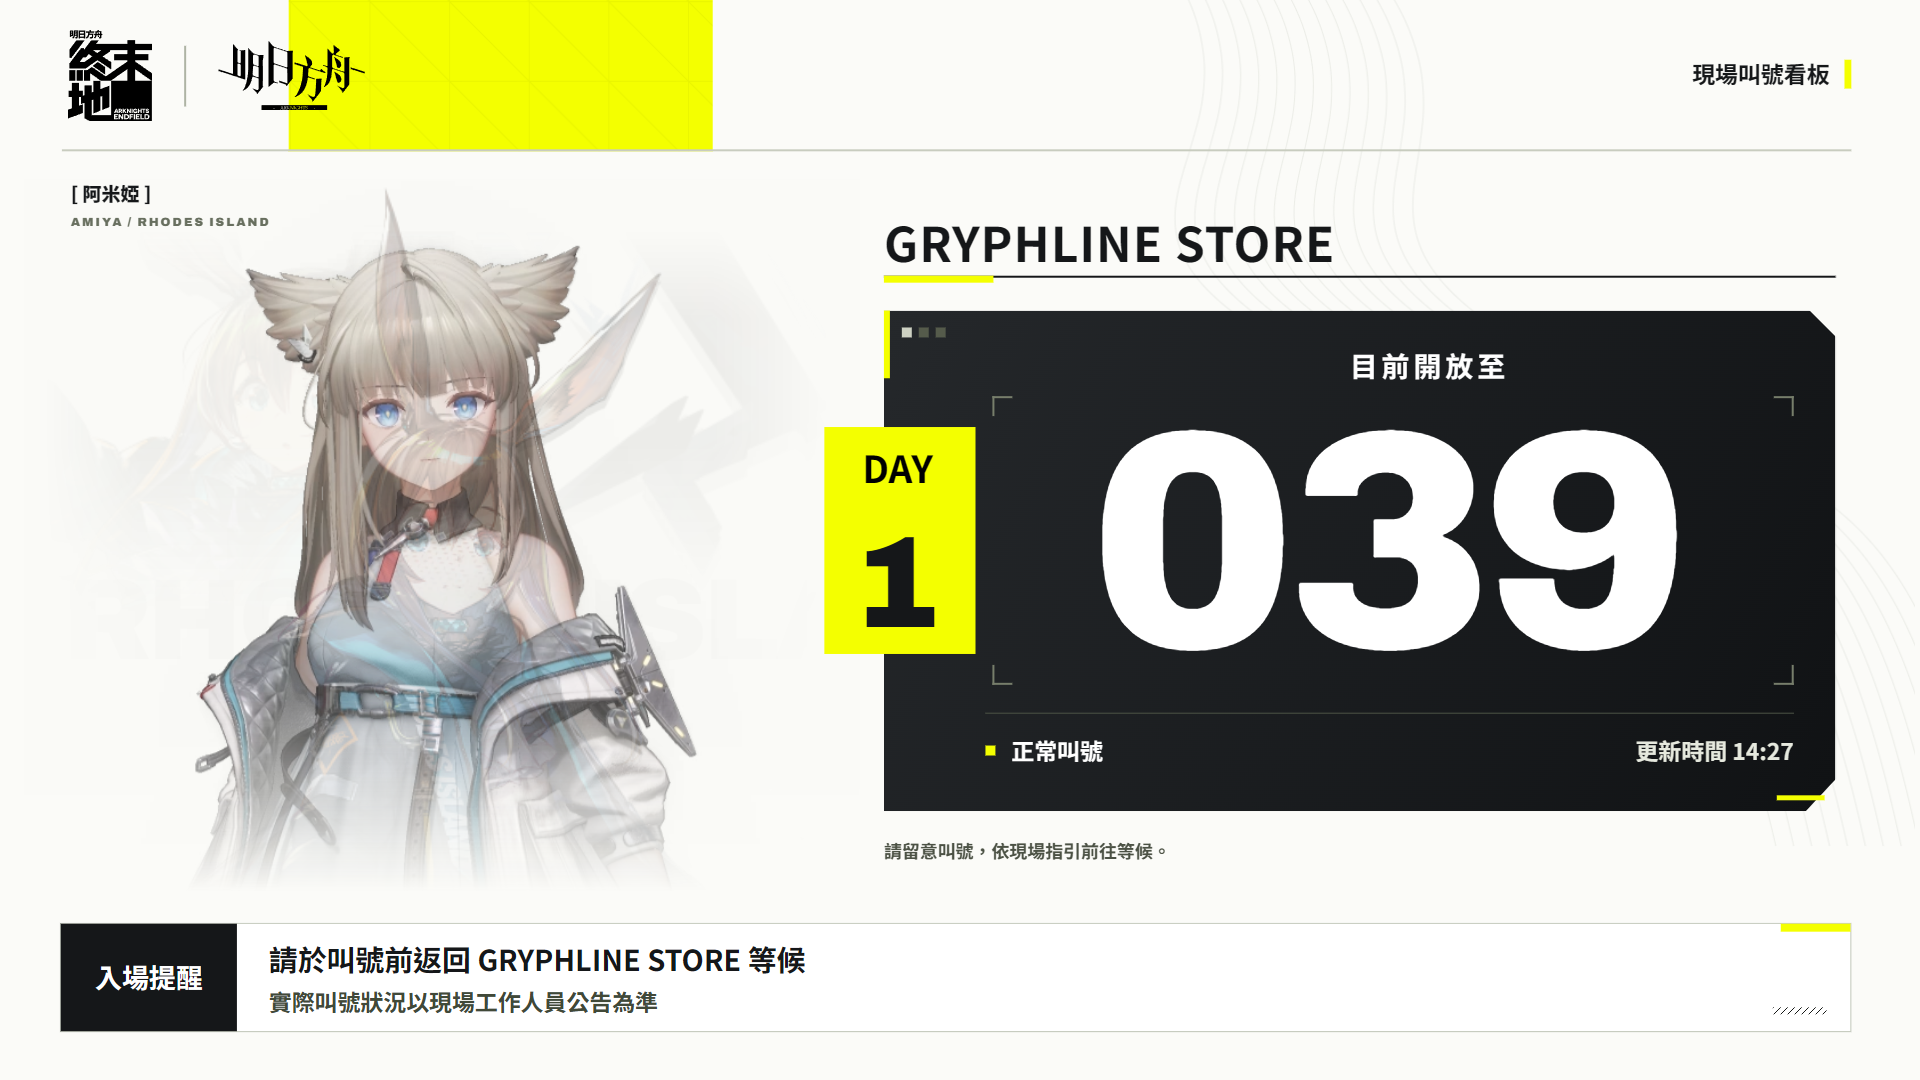
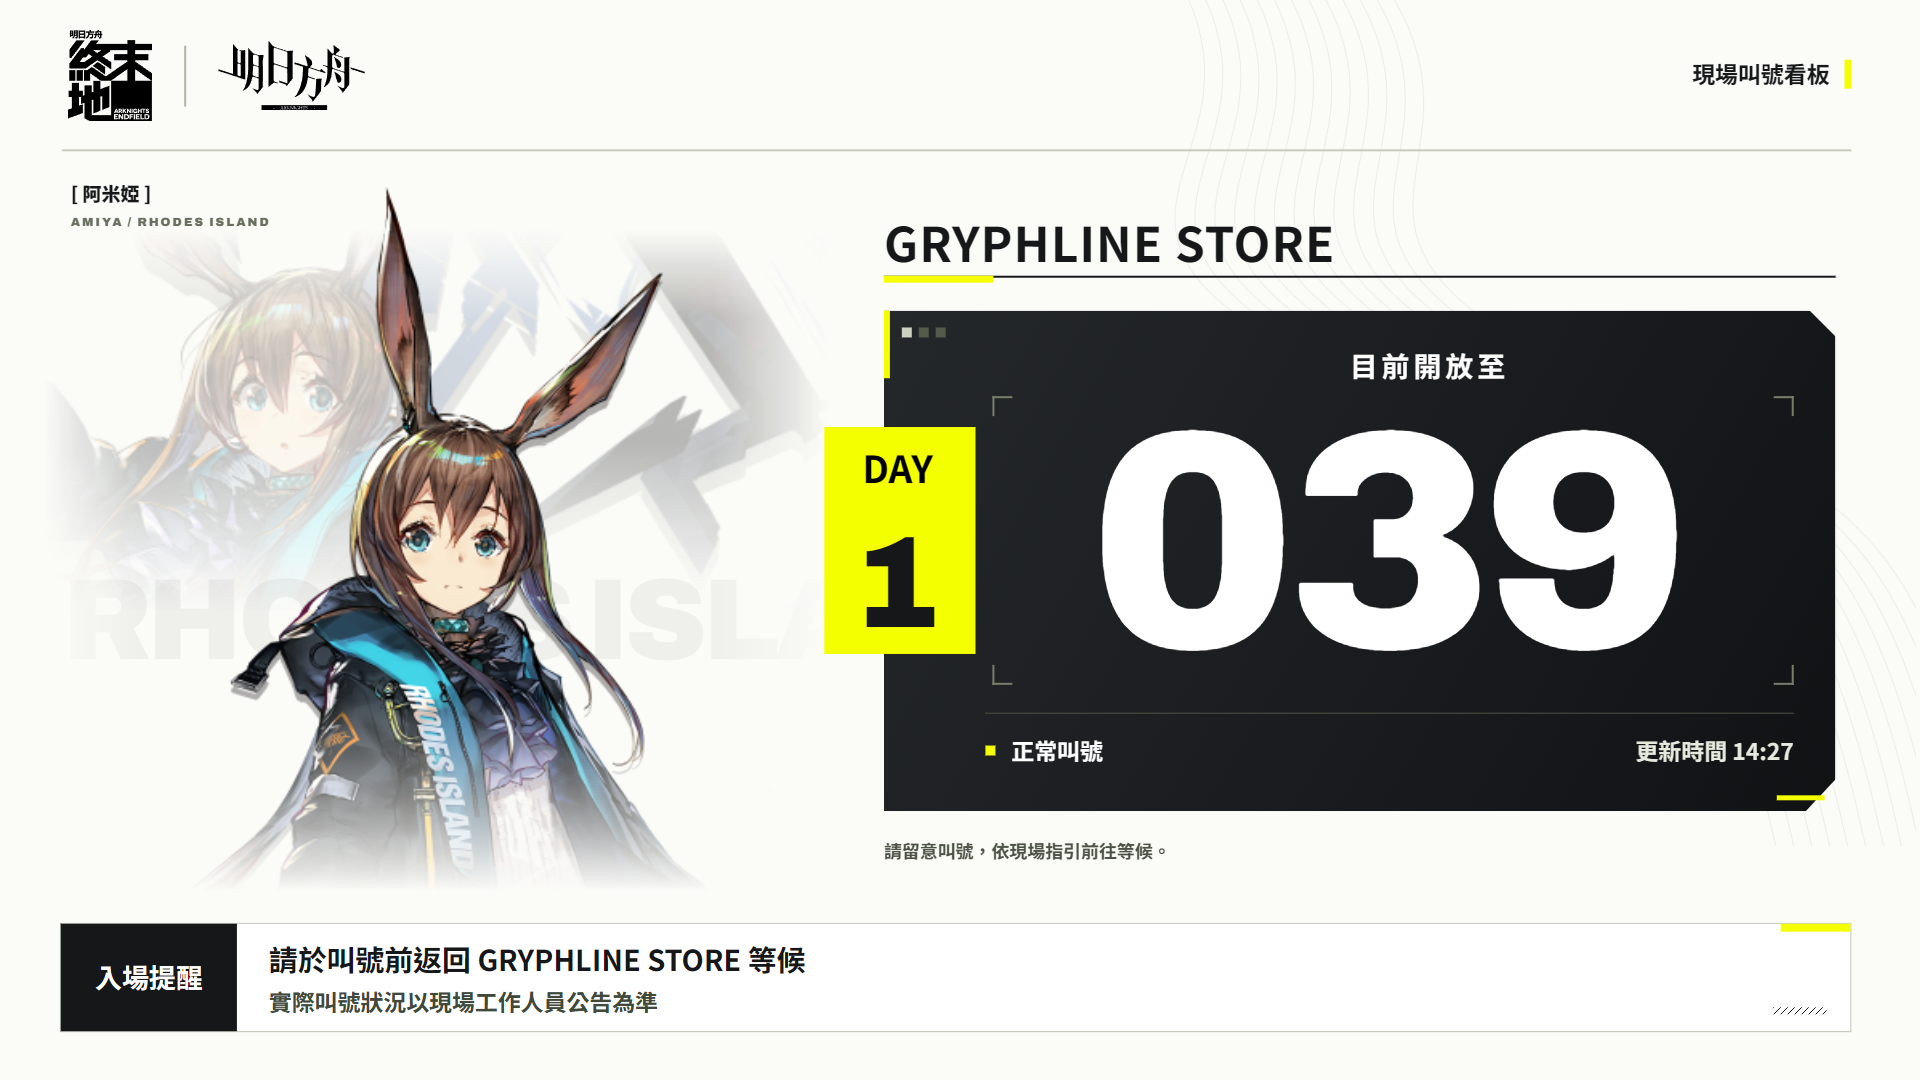
Hide desktop yellow backdrop during Amiya and refresh preview

Changed region(s): [[0.0312, 0.1833, 0.4062, 0.7944], [0.125, 0.0, 0.375, 0.1528]]

diff --git a/index.html b/index.html
@@ -1,7 +1,7 @@
 <!doctype html><html lang="zh-Hant"><head>
 <meta charset="utf-8"><meta name="viewport" content="width=device-width,initial-scale=1"><meta name="theme-color" content="#f4ff00">
 <title>明日方舟 × 終末地｜GRYPHLINE STORE 叫號看板</title><link rel="icon" href="assets/endfield-logo-original.svg" type="image/svg+xml">
-<link rel="preload" href="assets/Archivo-variable.woff2" as="font" type="font/woff2" crossorigin><link rel="stylesheet" href="ui.css?v=2.1.0"><script defer src="content.js?v=2.1.0"></script><link rel="stylesheet" href="v6.css?v=2.1.0"><script defer src="video-player.js?v=2.1.0"></script><script defer src="runtime.js?v=2.1.0"></script></head>
+<link rel="preload" href="assets/Archivo-variable.woff2" as="font" type="font/woff2" crossorigin><link rel="stylesheet" href="ui.css?v=2.1.0"><script defer src="content.js?v=2.1.0"></script><link rel="stylesheet" href="v6.css?v=2.1.1"><script defer src="video-player.js?v=2.1.0"></script><script defer src="runtime.js?v=2.1.0"></script></head>
 <body><main class="canvas" aria-label="GRYPHLINE STORE 現場叫號看板">
 <div class="yellow-band" aria-hidden="true"></div><div class="topography" aria-hidden="true"></div><div class="background-word" aria-hidden="true">ENDFIELD</div><div class="background-rule" aria-hidden="true"></div><div class="dot-grid" aria-hidden="true"></div>
 <header class="header"><div class="brand-pair"><img class="brand-endfield" src="assets/endfield-logo-original.svg" alt="明日方舟：終末地"><span class="brand-divider" aria-hidden="true"></span><img class="brand-arknights" src="assets/arknights-logo.svg" alt="明日方舟"></div><div class="header-note">現場叫號看板</div><span class="header-accent" aria-hidden="true"></span></header>

diff --git a/v6.css b/v6.css
@@ -12,7 +12,7 @@
 .amiya .amiya-scene{opacity:1}
 .amiya-scene img{position:absolute;width:1900px;height:auto;max-width:none;left:-690px;top:-435px;opacity:.27;mask-image:linear-gradient(to bottom,transparent 435px,#000 525px,#000 650px,transparent 820px);-webkit-mask-image:linear-gradient(to bottom,transparent 435px,#000 525px,#000 650px,transparent 820px)}
 .amiya-scene span{position:absolute;top:335px;left:18px;font:900 116px/1 QueueDigits,sans-serif;color:#1517190d;white-space:nowrap;letter-spacing:-5px}
-.amiya .yellow-band{height:152px}.amiya .background-word,.amiya .background-rule,.amiya .dot-grid{opacity:0}
+.canvas:not(.mobile) .yellow-band{transition:opacity 850ms ease-in-out}.canvas:not(.mobile).amiya .yellow-band{opacity:0}.motion-off .yellow-band{transition:none}.amiya .background-word,.amiya .background-rule,.amiya .dot-grid{opacity:0}
 .character-layer[data-character=amiya] .character-poster{animation:amiya-front 6.5s ease-in-out infinite alternate;animation-play-state:paused}
 .amiya-scene img{animation:amiya-back 6.5s ease-in-out infinite alternate;animation-play-state:paused}
 .amiya:not(.characters-off) .character-layer[data-character=amiya] .character-poster,.amiya:not(.characters-off) .amiya-scene img{animation-play-state:running}
